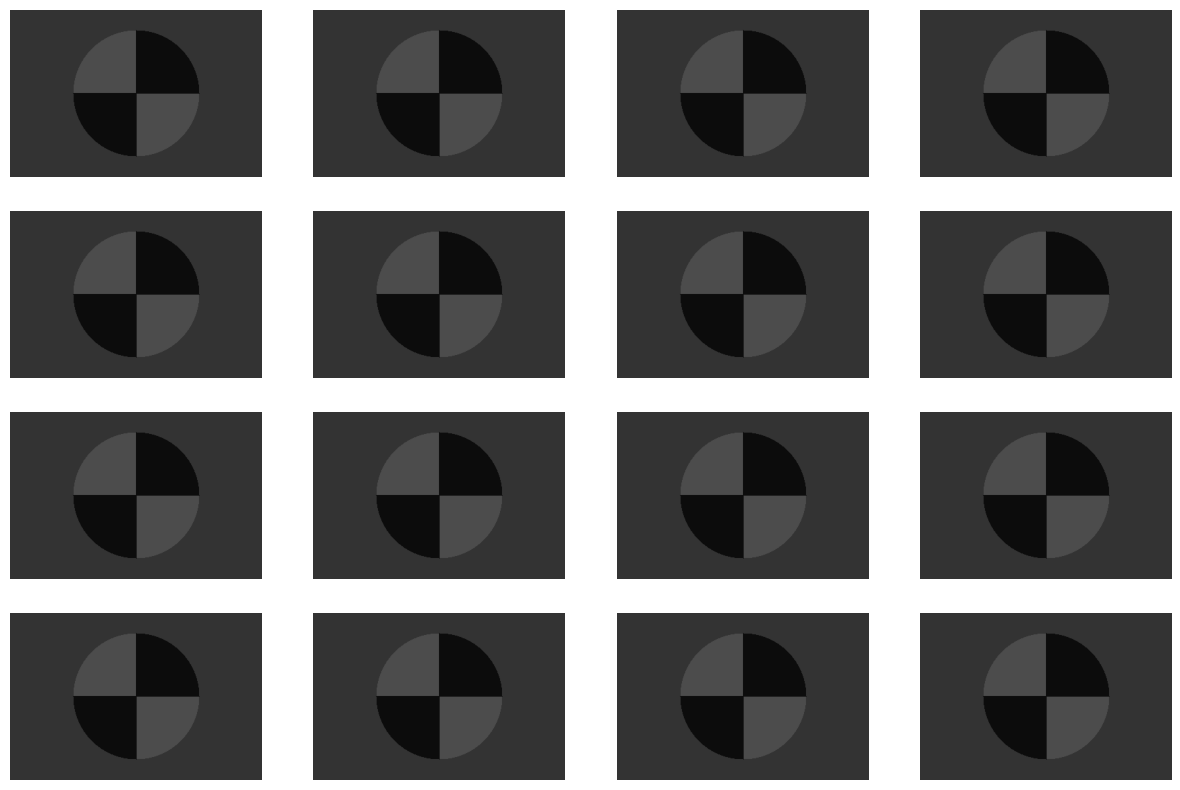
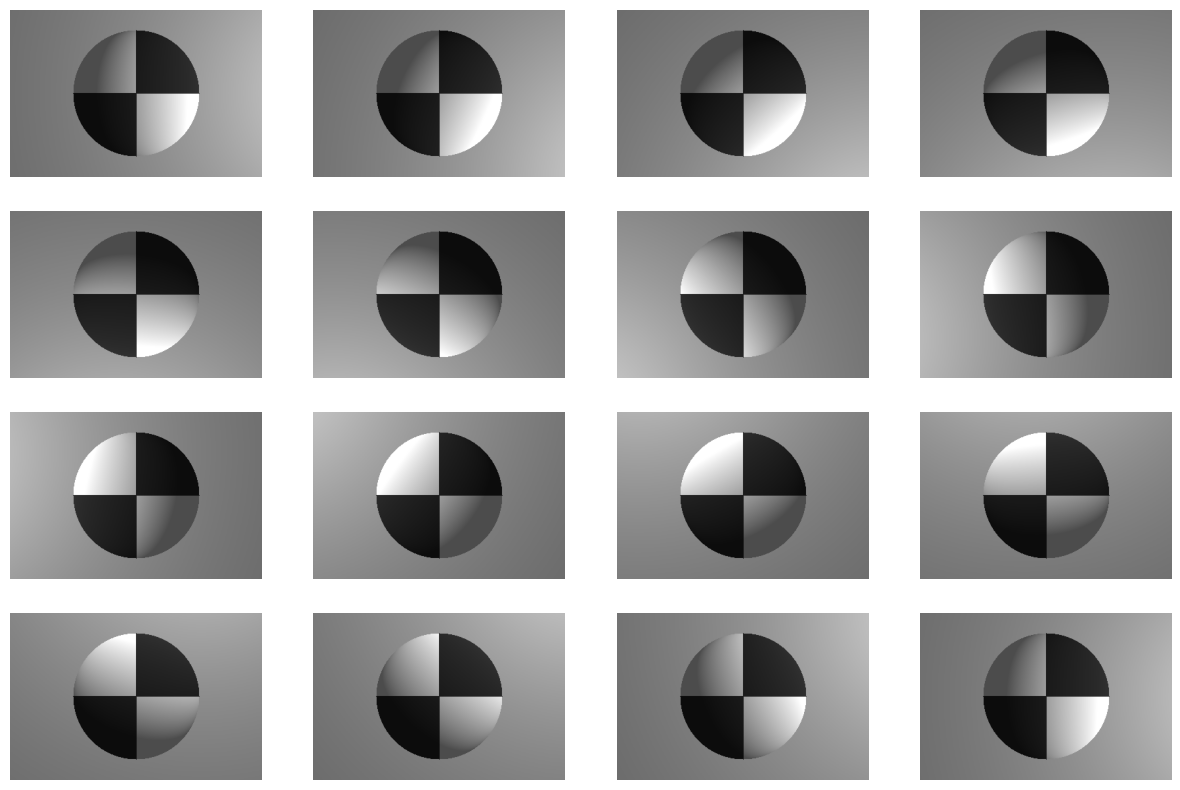
refined q3

diff --git a/MP1/jongwon5/q3_code/render_image.py b/MP1/jongwon5/q3_code/render_image.py
@@ -1,3 +1,4 @@
+import os
 import numpy as np
 from generate_scene import get_ball
 import matplotlib.pyplot as plt
@@ -35,19 +36,18 @@ def render(Z, N, A, S,
       X = depth / f * (u - cx)  # X coordinate of the object w.r.t. the camera center
       Y = depth / f * (v - cy)  # Y coordinate of the object w.r.t. the camera center
       
+      ## All directional conventions below adhere to that of Fig.2.15. in Szeliski
+      ## https://www.dropbox.com/s/vdohbj8i4xq838s/SzeliskiBookDraft_20210214.pdf?dl=0
       # incident light direction
-      vi_p[v, u, :] = np.array([X - point_light_loc[0][0], Y - point_light_loc[0][1], depth - point_light_loc[0][2]])
-      vi_d[v, u, :] = np.array(directional_light_dirn[0])
-      # specular reflection direction (see Section 2.2, Equation 2.89 in Szeliski)
-      # FIXME: which one is correct?
-      # si_p[v, u, :] = np.matmul(2 * N[v, u, :] * N[v, u, :].T - np.eye(3), vi_p[v, u, :])
-      # si_d[v, u, :] = np.matmul(2 * N[v, u, :] * N[v, u, :].T - np.eye(3), vi_d[v, u, :])
-      si_p[v, u, :] = vi_p[v, u, :] - 2 * np.dot(vi_p[v, u, :], N[v, u, :]) * N[v, u, :]
-      si_d[v, u, :] = vi_d[v, u, :] - 2 * np.dot(vi_d[v, u, :], N[v, u, :]) * N[v, u, :]
+      vi_p[v, u, :] = - np.array([X - point_light_loc[0][0], Y - point_light_loc[0][1], depth - point_light_loc[0][2]])
+      vi_d[v, u, :] = - np.array(directional_light_dirn[0])
+      # specular reflection direction (see Section 2.2., Equation 2.90. in Szeliski)
+      si_p[v, u, :] = np.matmul(2 * N[v, u, :] * N[v, u, :][:, np.newaxis] - np.eye(3), vi_p[v, u, :])
+      si_d[v, u, :] = np.matmul(2 * N[v, u, :] * N[v, u, :][:, np.newaxis] - np.eye(3), vi_d[v, u, :])
       # viewing direction
-      vr[v, u, :] = np.array([X, Y, depth])
+      vr[v, u, :] = - np.array([X, Y, depth])
   
-  # Normalize above
+  # Normalize directional vectors
   vi_p /= np.linalg.norm(vi_p, axis=2)[:, :, np.newaxis]
   vi_d /= np.linalg.norm(vi_d, axis=2)[:, :, np.newaxis]
   si_p /= np.linalg.norm(si_p, axis=2)[:, :, np.newaxis]
@@ -65,7 +65,6 @@ def render(Z, N, A, S,
   Id_d = A * directional_light_strength * np.clip(np.einsum('ijk,ijk->ij', vi_d, N), 0, None)
   
   # Specular Term
-  # FIXME: wether clip or not?
   Is_p = S * point_light_strength * pow(np.clip(np.einsum('ijk,ijk->ij', vr, si_p), 0, None), k_e)
   Is_d = S * directional_light_strength * pow(np.clip(np.einsum('ijk,ijk->ij', vr, si_d), 0, None), k_e)
 
@@ -79,6 +78,9 @@ def render(Z, N, A, S,
   return I
 
 def main():
+  # Current code directory
+  current_dir = os.path.dirname(os.path.abspath(__file__))
+
   for specular in [True, False]:
     # get_ball function returns:
     # - Z (depth image: distance to scene point from camera center, along the
@@ -117,7 +119,7 @@ def main():
       ax = axes.pop()
       ax.imshow(I)
       ax.set_axis_off()
-    plt.savefig(f'specular{specular:d}_move_point.png', bbox_inches='tight')
+    plt.savefig(os.path.join(current_dir, f'specular{specular:d}_move_point.png'), bbox_inches='tight')
     plt.close()
 
     # Case II: No point source, just a directional light source that moves
@@ -138,7 +140,7 @@ def main():
       ax = axes.pop()
       ax.imshow(I)
       ax.set_axis_off()
-    plt.savefig(f'specular{specular:d}_move_direction.png', bbox_inches='tight')
+    plt.savefig(os.path.join(current_dir, f'specular{specular:d}_move_direction.png', bbox_inches='tight')
     plt.close()
 
 if __name__ == '__main__':
